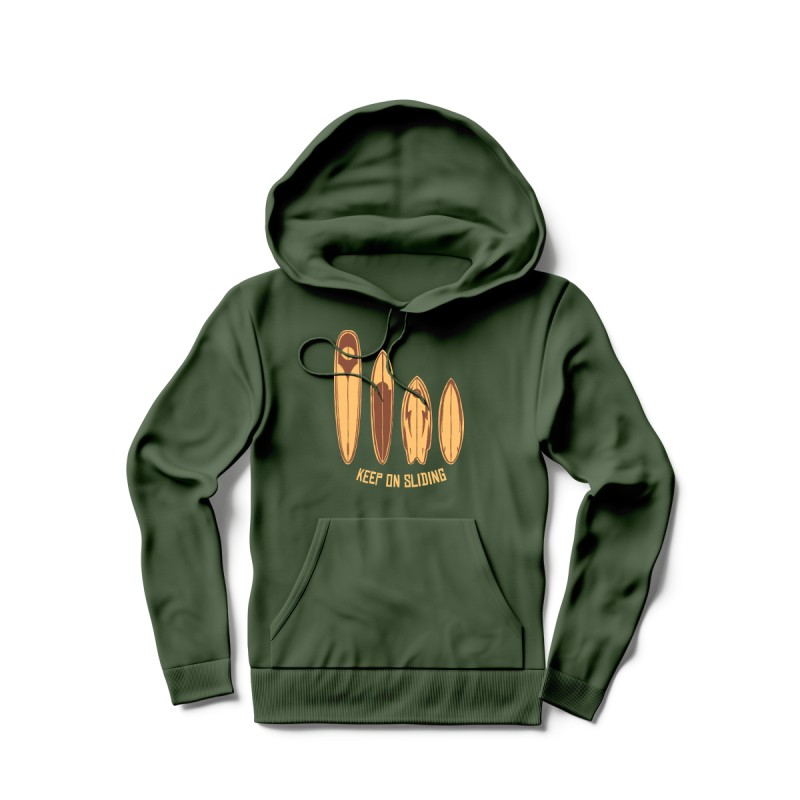
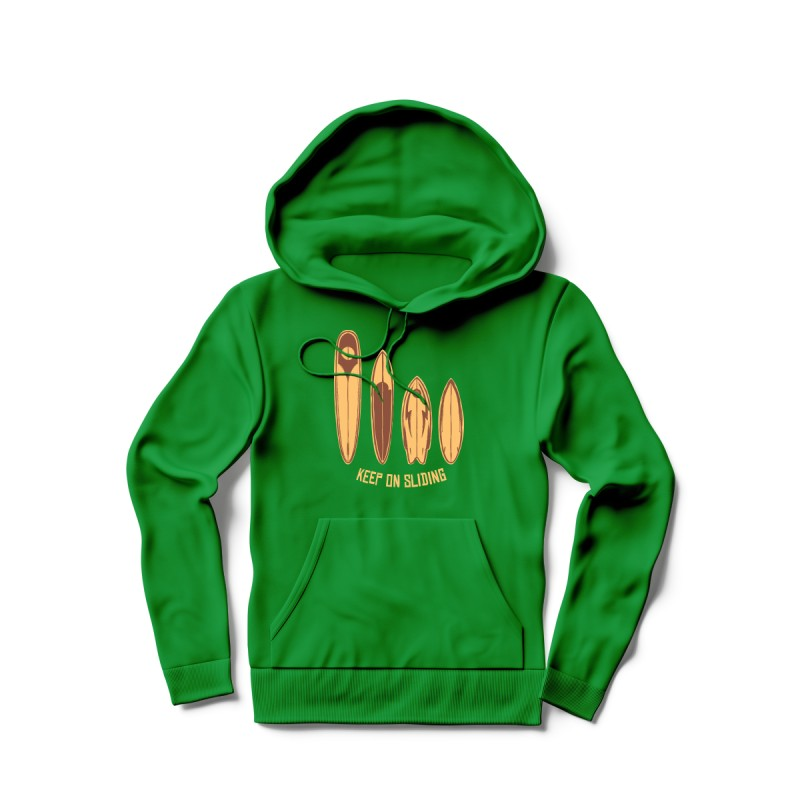
Atualizações na Página Principal

diff --git a/src/SobreNos.jsx b/src/SobreNos.jsx
@@ -1,4 +1,5 @@
 import React from 'react';
+import { Link } from 'react-router-dom'; // Importe o componente Link se estiver usando o React Router
 import Header from './Header';
 import Footer from './Footer';
 
@@ -10,26 +11,27 @@ const SobreNos = () => {
         <div className="container mx-auto px-8 py-16">
           <div className="grid grid-cols-1 md:grid-cols-2 gap-8">
             <div className="flex flex-col justify-center">
-              <h1 className="text-5xl font-bold mb-6">Conhece a nossa equipa</h1>
-              <p className="text-lg leading-relaxed mb-6">
-                Somos uma equipe apaixonada por criar experiências incríveis para nossos clientes. Nossos talentosos designers, desenvolvedores e especialistas em marketing trabalham juntos para oferecer soluções inovadoras que impulsionam o seu negócio.
-              </p>
-              <p className="text-lg leading-relaxed mb-6">
-                Lorem ipsum dolor sit amet, consectetur adipiscing elit. Nullam id nisi vel nunc aliquam eleifend at vel leo. Cras eu dui non ligula dictum lobortis. Donec ac bibendum leo, in ullamcorper dolor. Sed vel lobortis erat. Vestibulum efficitur, mauris sit amet faucibus posuere, neque ligula dictum ligula, eget congue purus nisl sed lectus.
-              </p>
-              <a
-                href="#contato"
-                className="bg-blue-500 hover:bg-blue-600 text-white font-semibold py-3 px-8 rounded-lg inline-block"
-              >
-                Entre em contato
-              </a>
+              <div>
+                <h1 className="text-5xl font-bold mb-6">Conhece a nossa equipa</h1>
+                <p className="text-lg leading-relaxed mb-6">
+                  Somos uma equipe apaixonada por criar experiências incríveis para nossos clientes. Nossos talentosos designers, desenvolvedores e especialistas em marketing trabalham juntos para oferecer soluções inovadoras que impulsionam o seu negócio.
+                </p>
+                <p className="text-lg leading-relaxed mb-6">
+                  Lorem ipsum dolor sit amet, consectetur adipiscing elit. Nullam id nisi vel nunc aliquam eleifend at vel leo. Cras eu dui non ligula dictum lobortis. Donec ac bibendum leo, in ullamcorper dolor. Sed vel lobortis erat. Vestibulum efficitur, mauris sit amet faucibus posuere, neque ligula dictum ligula, eget congue purus nisl sed lectus.
+                </p>
+                <Link to="/ContactPage/" className="bg-blue-500 hover:bg-blue-600 text-white font-semibold py-3 px-8 rounded-lg inline-block">
+                  Entre em contato
+                </Link>
+              </div>
             </div>
             <div className="flex justify-end">
-              <img
-                src="/Sobre.png"
-                alt="Equipe"
-                className="w-full h-auto rounded-lg shadow-lg"
-              />
+              <div className="w-full h-auto rounded-lg shadow-lg" style={{ maxWidth: '800px' }}>
+                <img
+                  src="/Sobre.png"
+                  alt="Equipe"
+                  className="w-full h-full object-cover rounded"
+                />
+              </div>
             </div>
           </div>
         </div>

diff --git a/src/ProdDestaque.jsx b/src/ProdDestaque.jsx
@@ -3,18 +3,18 @@ import React from 'react';
 function ProdDestaque() {
   // Array de produtos
   const products = [
-    { name: 'Produto 1', price: '12', quantity: '12', img: '/sweat1.png' },
-    { name: 'Produto 2', price: '12', quantity: '34', img: '/sweat2.png' },
-    { name: 'Produto 3', price: '12', quantity: '13', img: '/sweat3.png' },
-    { name: 'Produto 4', price: '12', quantity: '2', img: '/sweat4.png'},
-    { name: 'Produto 5', price: '12', quantity: '17', img: '/sweat5.png' },
-    { name: 'Produto 6', price: '12', quantity: '7', img: '/tshirt1.png' },
-    { name: 'Produto 7', price: '12', quantity: '21', img: '/tshirt2.png' },
-    { name: 'Produto 8', price: '12', quantity: '12', img: '/tshirt3.png' },
-    { name: 'Produto 9', price: '12', quantity: '35', img: '/tshirt4.png' },
-    { name: 'Produto 10', price: '12', quantity: '11', img: '/tshirt5.png' },
-    { name: 'Produto 11', price: '12', quantity: '10', img: '/cap1.png' },
-    { name: 'Produto 12', price: '12', quantity: '4', img: '/cap2.png' }
+    { name: 'SANTA CRUZ CLÁSSICA | SWEAT | NAVY', price: '29,90', quantity: '12', img: '/sweat1.png' },
+    { name: 'SANTA CRUZ MAGIC LAND ROUND | SWEAT | GREY', price: '29,90', quantity: '34', img: '/sweat2.png' },
+    { name: 'SANTA CRUZ STA KEEP ON SLIDING JR | SWEAT | GREEN', price: '29,90', quantity: '13', img: '/sweat3.png' },
+    { name: 'SANTA CRUZ OESTE AGRESTE | CREW | NAVY', price: '24,90', quantity: '2', img: '/sweat4.png'},
+    { name: 'SANTA CRUZ PENEDO | SWEAT | BEJE', price: '34,90', quantity: '17', img: '/sweat5.png' },
+    { name: 'SANTA CRUZ CLASSICA | T-SHIRT | GREY', price: '15,90', quantity: '7', img: '/tshirt1.png' },
+    { name: 'SANTA CRUZ ELEMENTS FIRE | T-SHIRT | BLACK', price: '19,90', quantity: '21', img: '/tshirt2.png' },
+    { name: 'SANTA CRUZ STA QUILHAS | T-SHIRT JUNIOR | NAVY', price: '15,90', quantity: '12', img: '/tshirt3.png' },
+    { name: 'SANTA CRUZ MS65 | T-SHIRT | GREY', price: '19,90', quantity: '35', img: '/tshirt4.png' },
+    { name: 'SANTA CRUZ PENEDO | T-SHIRT | BLACK', price: '19,90', quantity: '11', img: '/tshirt5.png' },
+    { name: 'SANTA CRUZ STA BORDADO FLEXFIT BONÉ | BLACK', price: '19,90', quantity: '10', img: '/cap1.png' },
+    { name: 'SANTA CRUZ STA BORDADO FLEXFIT BONÉ | GREEN', price: '19,90', quantity: '4', img: '/cap2.png' }
   ];
 
   return (
@@ -30,7 +30,7 @@ function ProdDestaque() {
                 <img src={product.img} alt={product.name} class="w-full h-64 object-cover" />
                 <div class="absolute bottom-0 left-0 right-0 px-6 py-4 opacity-0 transition-opacity duration-300 bg-black bg-opacity-75 text-white group-hover:opacity-100">
                   <h3 class="text-2xl font-bold mb-2">{product.name}</h3>
-                  <p class="text-gray-300 mb-2">Preço: {product.price}</p>
+                  <p class="text-gray-300 mb-2">Preço: {product.price} €</p>
                   <p class="text-gray-300">Quantidade: {product.quantity}</p>
                 </div>
               </div>
@@ -47,6 +47,7 @@ function ProdDestaque() {
       ))}
     </div>
   </div>
+  
 </div>
 
 

diff --git a/src/Footer.jsx b/src/Footer.jsx
@@ -16,8 +16,7 @@ function Footer() {
           <div className="col-span-1 text-center">
             <h2 className="text-2xl font-bold mb-4">A NOSSA EMPRESA</h2>
             <ul className="space-y-2">
-              <li><Link to="/" className="text-gray-400 hover:text-white">Sobre ManelSport</Link></li>
-              <li><Link to="/products" className="text-gray-400 hover:text-white">Team Manelsport</Link></li>
+              <li><Link to="/SobreNos/" className="text-gray-400 hover:text-white">Sobre STA</Link></li>
               <li><Link to="/about" className="text-gray-400 hover:text-white">Termos e Condições</Link></li>
               <li><Link to="/contact" className="text-gray-400 hover:text-white">Informação legal</Link></li>
               <li><Link to="/contact" className="text-gray-400 hover:text-white">Resolução Alternativa de Litígios de Consumo</Link></li>
@@ -26,7 +25,7 @@ function Footer() {
               <li><Link to="/contact" className="text-gray-400 hover:text-white">Devolução e Troca</Link></li>
               <li><Link to="/contact" className="text-gray-400 hover:text-white">Envio e Pagamento</Link></li>
               <li><Link to="/contact" className="text-gray-400 hover:text-white">Direito de Livre Resolução</Link></li>
-              <li><Link to="/contact" className="text-gray-400 hover:text-white">Contacte-nos</Link></li>
+              <li><Link to="/ContactPage/" className="text-gray-400 hover:text-white">Contacte-nos</Link></li>
               <li><Link to="/contact" className="text-gray-400 hover:text-white">Lojas</Link></li>
               <li><Link to="/contact" className="text-gray-400 hover:text-white">Mapa do site</Link></li>
             </ul>

diff --git a/src/BannerDuvidas.jsx b/src/BannerDuvidas.jsx
@@ -1,4 +1,5 @@
 import React from 'react';
+import { Link } from 'react-router-dom';
 
 function BannerDuvidas () {
 
@@ -9,7 +10,9 @@ function BannerDuvidas () {
         <div class="text-center">
           <h2 class="text-5xl font-bold text-white mb-4">Tens alguma questão?</h2>
           <p class="text-lg text-white mb-6">Torna tudo mais fácil ao enviar uma mensagem</p>
-          <button class="bg-white text-black font-bold py-3 px-8 rounded-full shadow-lg hover:shadow-xl">Enviar</button>
+          <Link to="/SobreNos/">
+            <button className="bg-white text-black font-bold py-3 px-8 rounded-full shadow-lg hover:shadow-xl">Enviar</button>
+          </Link>
         </div>
       </div>
     </div>

diff --git a/src/Menu.jsx b/src/Menu.jsx
@@ -1,8 +1,4 @@
-import React, { useState, useEffect } from 'react';
-import Produtos from './Produtos';
-import Moedas from './Moedas';
-import moment from 'moment';
-import { Link} from 'react-router-dom';
+import React from 'react';
 import Header from './Header';
 import Footer from './Footer';
 import ProdDestaque from './ProdDestaque';

diff --git a/src/App.css b/src/App.css
@@ -19,3 +19,7 @@
     background-repeat: no-repeat;
     background-size: cover;
     }
+
+    .bg-sobre {
+      background-image: url(/public/Sobre.png);
+    }
